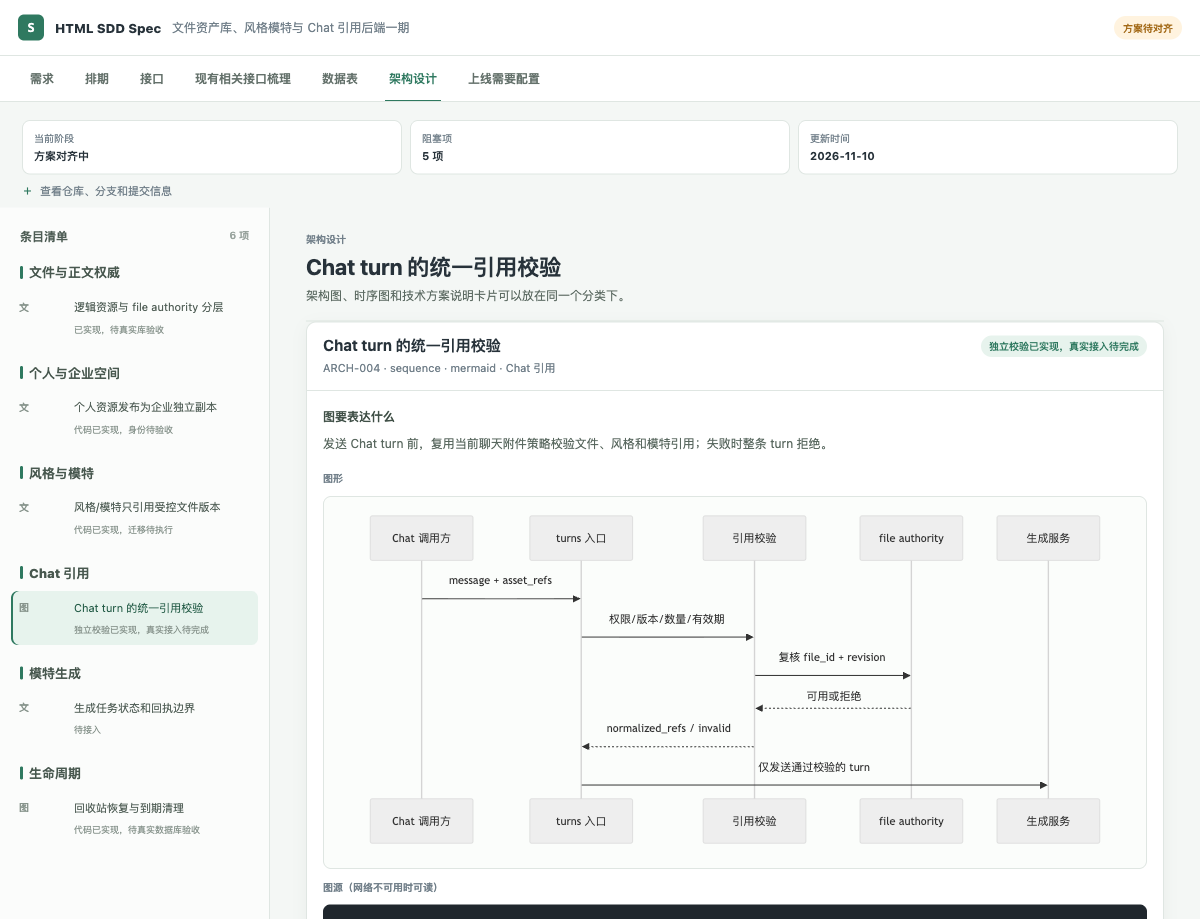
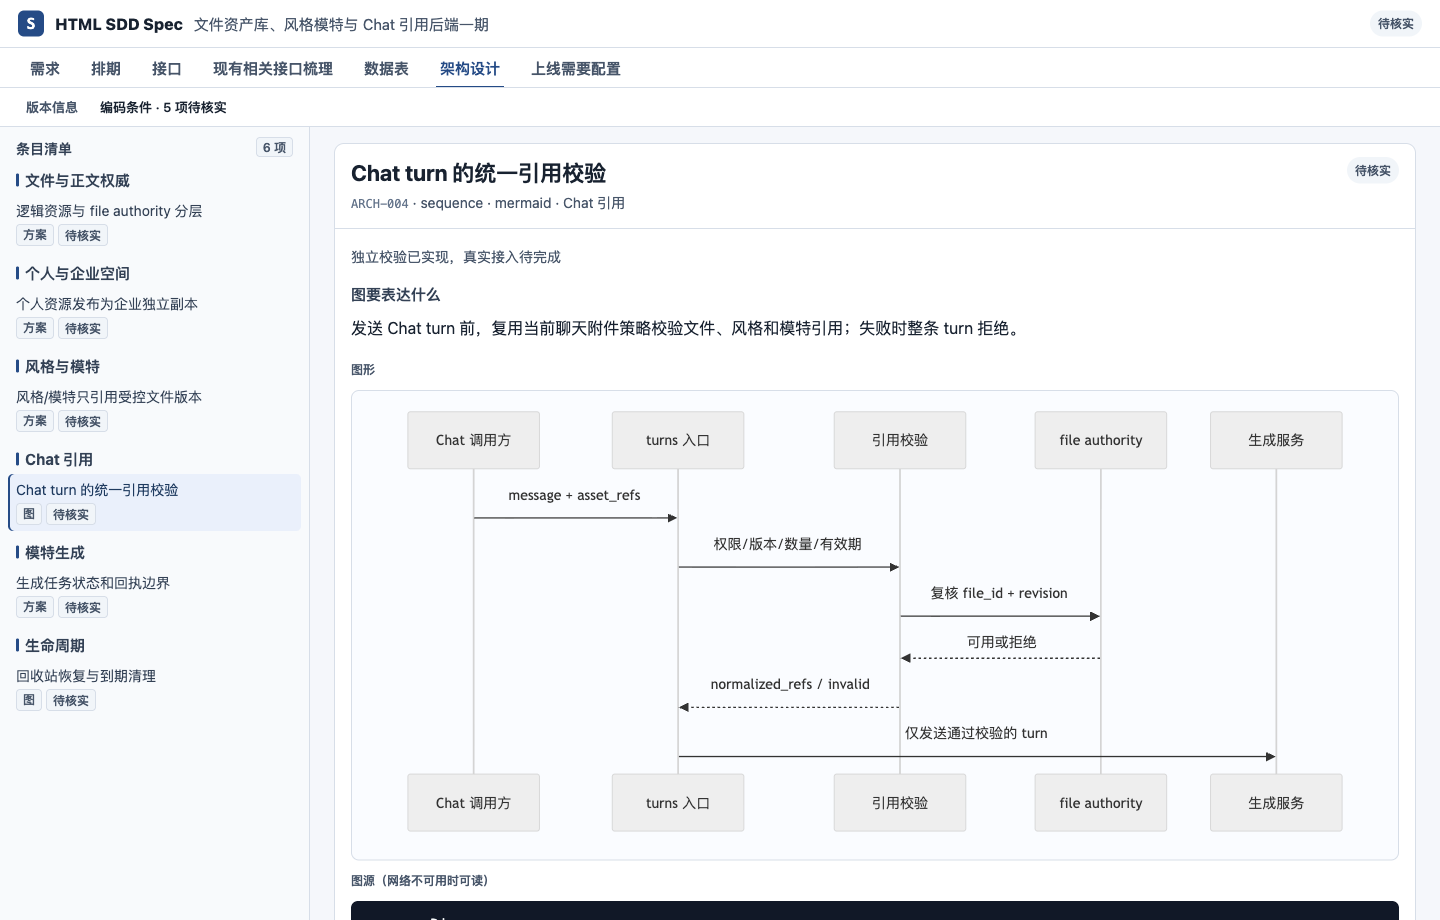
docs: 补回新版 HTML SDD 示例截图
中英文 README 展示公开资产库示例的接口、排期和时序图。三张截图均通过浏览器重新采集并检查。

diff --git a/README.en.md b/README.en.md
@@ -14,6 +14,14 @@ Bring a requirement's **goals, current implementation, design, and progress** to
 | Architecture and rollout | Design notes by module, architecture and sequence diagrams, and rollout configuration |
 | Changes and AI collaboration | Compare revisions and retrieve the context for a specific requirement or task. Work with one agent or split the work across agents. |
 
+## Screenshots
+
+![API parameters and request and response examples](docs/images/html-sdd-console.png)
+
+![Eight-column schedule grouped by module](docs/images/html-sdd-schedule.png)
+
+![Sequence diagram in the architecture view](docs/images/html-sdd-mermaid.png)
+
 ## Quick start
 
 **View the example.** Download the repository and open `examples/asset-library/index.html` in your browser.

diff --git a/README.md b/README.md
@@ -14,6 +14,14 @@
 | 架构与上线配置 | 按模块查看技术方案、架构图、时序图和上线需要配置的项目 |
 | 变更与 AI 协作 | 比较两版方案，按需求或任务读取相关内容，支持单 Agent 或多人分工 |
 
+## 示例截图
+
+![接口参数和请求、响应示例](docs/images/html-sdd-console.png)
+
+![按模块组织的八列排期](docs/images/html-sdd-schedule.png)
+
+![架构设计中的时序图](docs/images/html-sdd-mermaid.png)
+
 ## 怎么用
 
 **先看效果。** 下载仓库后，直接用浏览器打开 `examples/asset-library/index.html`。
